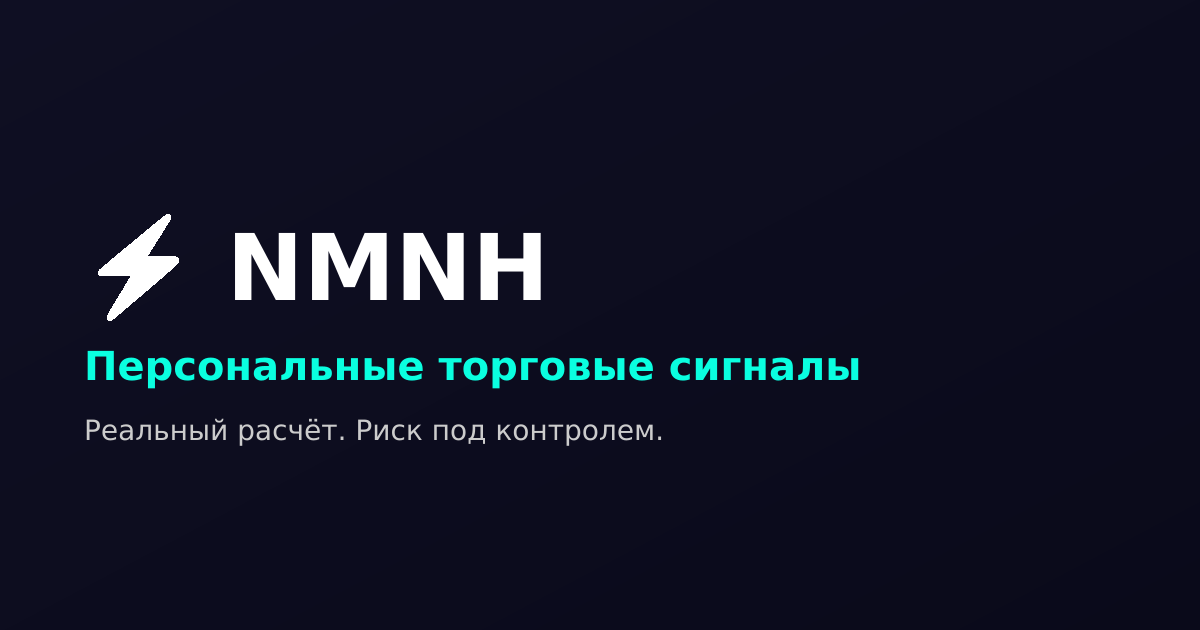
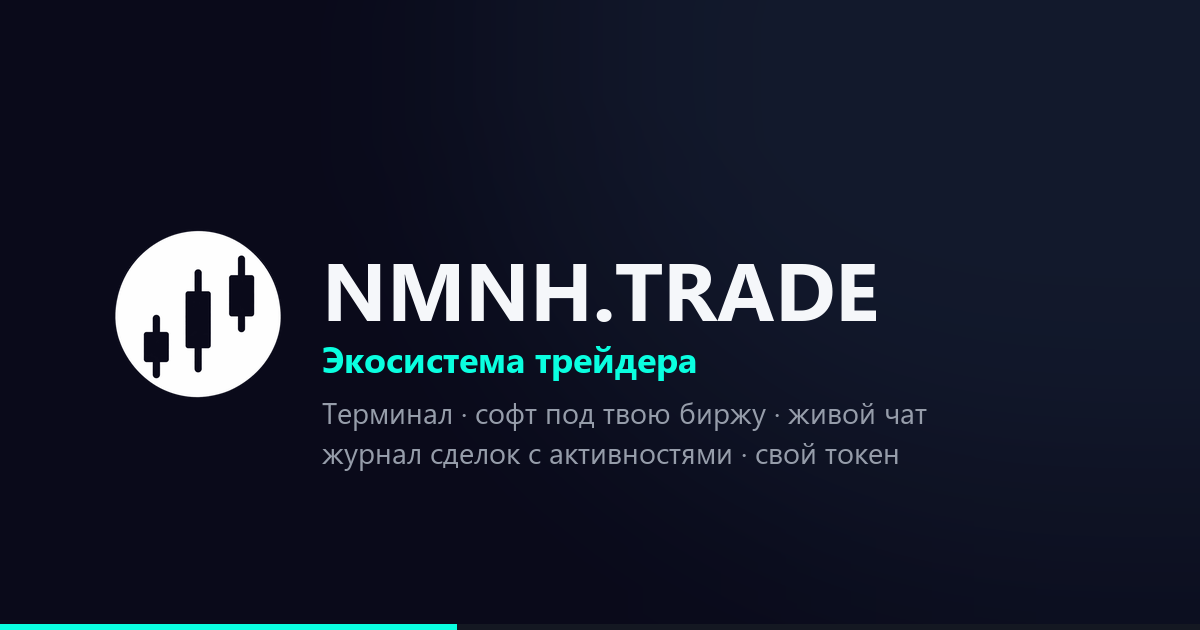
fix(web): предпросмотр ссылки с картинкой, календарь не растягивает страницу
Предпросмотр приходил без картинки: основой адресов в метаданных стоял
nmnh.io, а сайт живёт на www.nmnh.trade - og:image указывал на чужой домен, где
этой картинки нет. Telegram сходил по адресу, ничего не нашёл и показал одни
слова. Основа теперь из окружения с настоящим адресом по умолчанию, у страницы
появился канонический адрес, а у картинки метка версии: превью кэшируют все,
кому его однажды отдали.

Сама картинка перерисована: прежняя обещала «персональные торговые сигналы» и
несла старый знак-молнию. Теперь на ней круг со свечами - тот же, что значком
сайта, - имя и то, из чего экосистема состоит.

Клетки календаря были квадратными, а календарь стоит в половину ширины: на
широком экране квадрат выходил в сто тридцать точек, и полный месяц из шести
рядов растягивал панель на девять сотен. Высота клетки теперь фиксированная -
сорок восемь точек, ровно под три коротких строки внутри.

Полученная награда помечена звездой - той же, что на лучшем дне календаря.
Прежний уголок цветной заливкой читался оформлением рамки, а не отметкой.

Changed region(s): [[0.0617, 0.3317, 0.7708, 0.754], [0.0, 0.9651, 0.4008, 1.0]]

diff --git a/webapp/app/app/analytics/page.tsx b/webapp/app/app/analytics/page.tsx
@@ -112,6 +112,17 @@ const ACH_CATEGORIES: { id: AchCategory; icon: React.ElementType }[] = [
   { id: "special",     icon: Sparkles      },
 ];
 
+/**
+ * Высота клетки календаря, точки.
+ *
+ * Клетки были квадратными, а календарь стоит в половину ширины страницы: на
+ * широком экране квадрат выходил в сто тридцать точек, и полный месяц из шести
+ * рядов растягивал панель на девять сотен - вдвое дольше, чем цифры рядом с
+ * ним. Читают в клетке три коротких строки, и сорока восьми точек им хватает с
+ * запасом.
+ */
+const CELL_H = 48;
+
 // ─── Ячейка дня ─────────────────────────────────────────────────────────────
 function DayCell({ day, onClick, active, isToday, best }: {
   day: CalendarDay | null;
@@ -126,7 +137,7 @@ function DayCell({ day, onClick, active, isToday, best }: {
   // Звезда двух цветов: чёрная на белом листе, зелёная на тёмном. Один рисунок
   // на оба не годится - чёрная звезда на тёмной клетке пропадает.
   const paper = useTerminalTheme();
-  if (!day) return <div style={{ aspectRatio: "1" }} />;
+  if (!day) return <div style={{ height: CELL_H }} />;
 
   const pnl = day.pnl_pct;
   const isPos = pnl !== null && pnl > 0;
@@ -169,7 +180,7 @@ function DayCell({ day, onClick, active, isToday, best }: {
   return (
     <button
       onClick={onClick}
-      style={{ aspectRatio: "1", background: bg }}
+      style={{ height: CELL_H, background: bg }}
       className={`group relative flex flex-col rounded-lg border transition-transform duration-150 hover:scale-[1.06] hover:z-10 ${borderCls} p-1`}
       title={[
         day.date,
@@ -307,6 +318,9 @@ export default function AnalyticsPage() {
    * убирают из-под глаз то, чего сейчас не спрашивают.
    */
   const [tab, setTab] = useState<"results" | "rewards">("results");
+  // Лист терминала: по нему выбирается цвет звезды - чёрная на белом, зелёная
+  // на тёмном.
+  const paper = useTerminalTheme();
   const [owner, setOwner] = useState<string | null>(null);
   const [recentDeposits, setRecentDeposits] = useState<DepositRecord[]>([]);
   const [tradeSummary, setTradeSummary] = useState<TradeSummary | null>(null);
@@ -1249,10 +1263,17 @@ export default function AnalyticsPage() {
                       </div>
                     </div>
                   </div>
+                  {/* Полученная награда помечена звездой - той же, что стоит
+                      на лучшем дне календаря: одна отметка на всё, что
+                      заслужено. Прежний уголок цветной заливкой в углу читался
+                      оформлением рамки, а не отметкой. */}
                   {ach.earned && (
-                    <div className="absolute right-0 top-0 h-12 w-12 overflow-hidden">
-                      <div className="absolute right-0 top-0 h-12 w-12 -translate-y-6 translate-x-6 rotate-45 bg-[var(--pane-up)]/20" />
-                    </div>
+                    // eslint-disable-next-line @next/next/no-img-element
+                    <img
+                      src={paper === "light" ? "/marks/star.png" : "/marks/star-green.png"}
+                      alt=""
+                      className="pointer-events-none absolute right-1.5 top-1.5 h-5 w-5"
+                    />
                   )}
                 </div>
               );

diff --git a/webapp/app/layout.tsx b/webapp/app/layout.tsx
@@ -38,8 +38,21 @@ import DevBar from "@/components/dev/DevBar";
 import TelegramInit from "@/components/telegram/TelegramInit";
 import ServerUpdating from "@/components/app/ServerUpdating";
 
+/**
+ * Адрес, от которого считаются полные ссылки в метаданных.
+ *
+ * Здесь была причина того, что предпросмотр ссылки приходил без картинки:
+ * основой стоял nmnh.io, а сайт живёт на www.nmnh.trade - и og:image указывал
+ * на чужой домен, где этой картинки нет. Telegram сходил по адресу, ничего не
+ * нашёл и показал одни слова.
+ *
+ * Из окружения, если задано: у ветки для проверки свой адрес, и картинку она
+ * должна отдавать со своего.
+ */
+const SITE = process.env.NEXT_PUBLIC_SITE_URL || "https://www.nmnh.trade";
+
 export const metadata: Metadata = {
-  metadataBase: new URL("https://nmnh.io"),
+  metadataBase: new URL(SITE),
   title: {
     default: "NMNH - Профессиональный торговый терминал",
     template: "%s - NMNH",
@@ -70,9 +83,13 @@ export const metadata: Metadata = {
     type: "website",
     locale: "ru_RU",
     siteName: "NMNH Platform",
-    images: [{ url: "/og.png", width: 1200, height: 630 }],
+    url: SITE,
+    // Метка версии - по той же причине, что у значка вкладки: превью
+    // кэшируют все, кому его однажды отдали, и старую картинку они держат
+    // неделями.
+    images: [{ url: "/og.png?v=2", width: 1200, height: 630 }],
   },
-  twitter: { card: "summary_large_image", images: ["/og.png"] },
+  twitter: { card: "summary_large_image", images: ["/og.png?v=2"] },
 };
 
 export const viewport: Viewport = {
